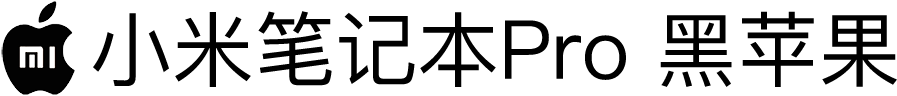
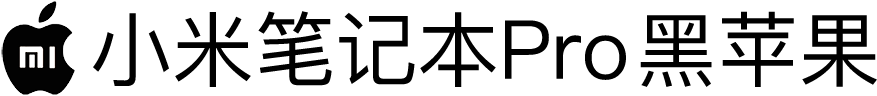
CI: Add Upload to Artifacts workflow

diff --git a/README_CN.md b/README_CN.md
@@ -1,4 +1,4 @@
-<img src="Docs/img/XiaoMi_Hackintosh_with_text_Small_cn.png" width="448" height="48"/>
+<img src="Docs/img/XiaoMi_Hackintosh_with_text_Small_cn.png" width="439" height="48"/>
 
 [![构建状态](https://github.com/daliansky/XiaoMi-Pro-Hackintosh/workflows/CI/badge.svg)](https://github.com/daliansky/XiaoMi-Pro-Hackintosh/actions) [![release](https://img.shields.io/badge/下载-release-blue.svg)](https://github.com/daliansky/XiaoMi-Pro-Hackintosh/releases) [![wiki](https://img.shields.io/badge/支持-wiki-green.svg)](https://github.com/daliansky/XiaoMi-Pro-Hackintosh/wiki/主页) [![讨论](https://img.shields.io/badge/讨论-QQ-red.svg)](https://shang.qq.com/wpa/qunwpa?idkey=d7b67735bb8c24ed2085a7ebfe0f53ce197bcc84b6397e41a3aaaaf9664966a8)
 -----
